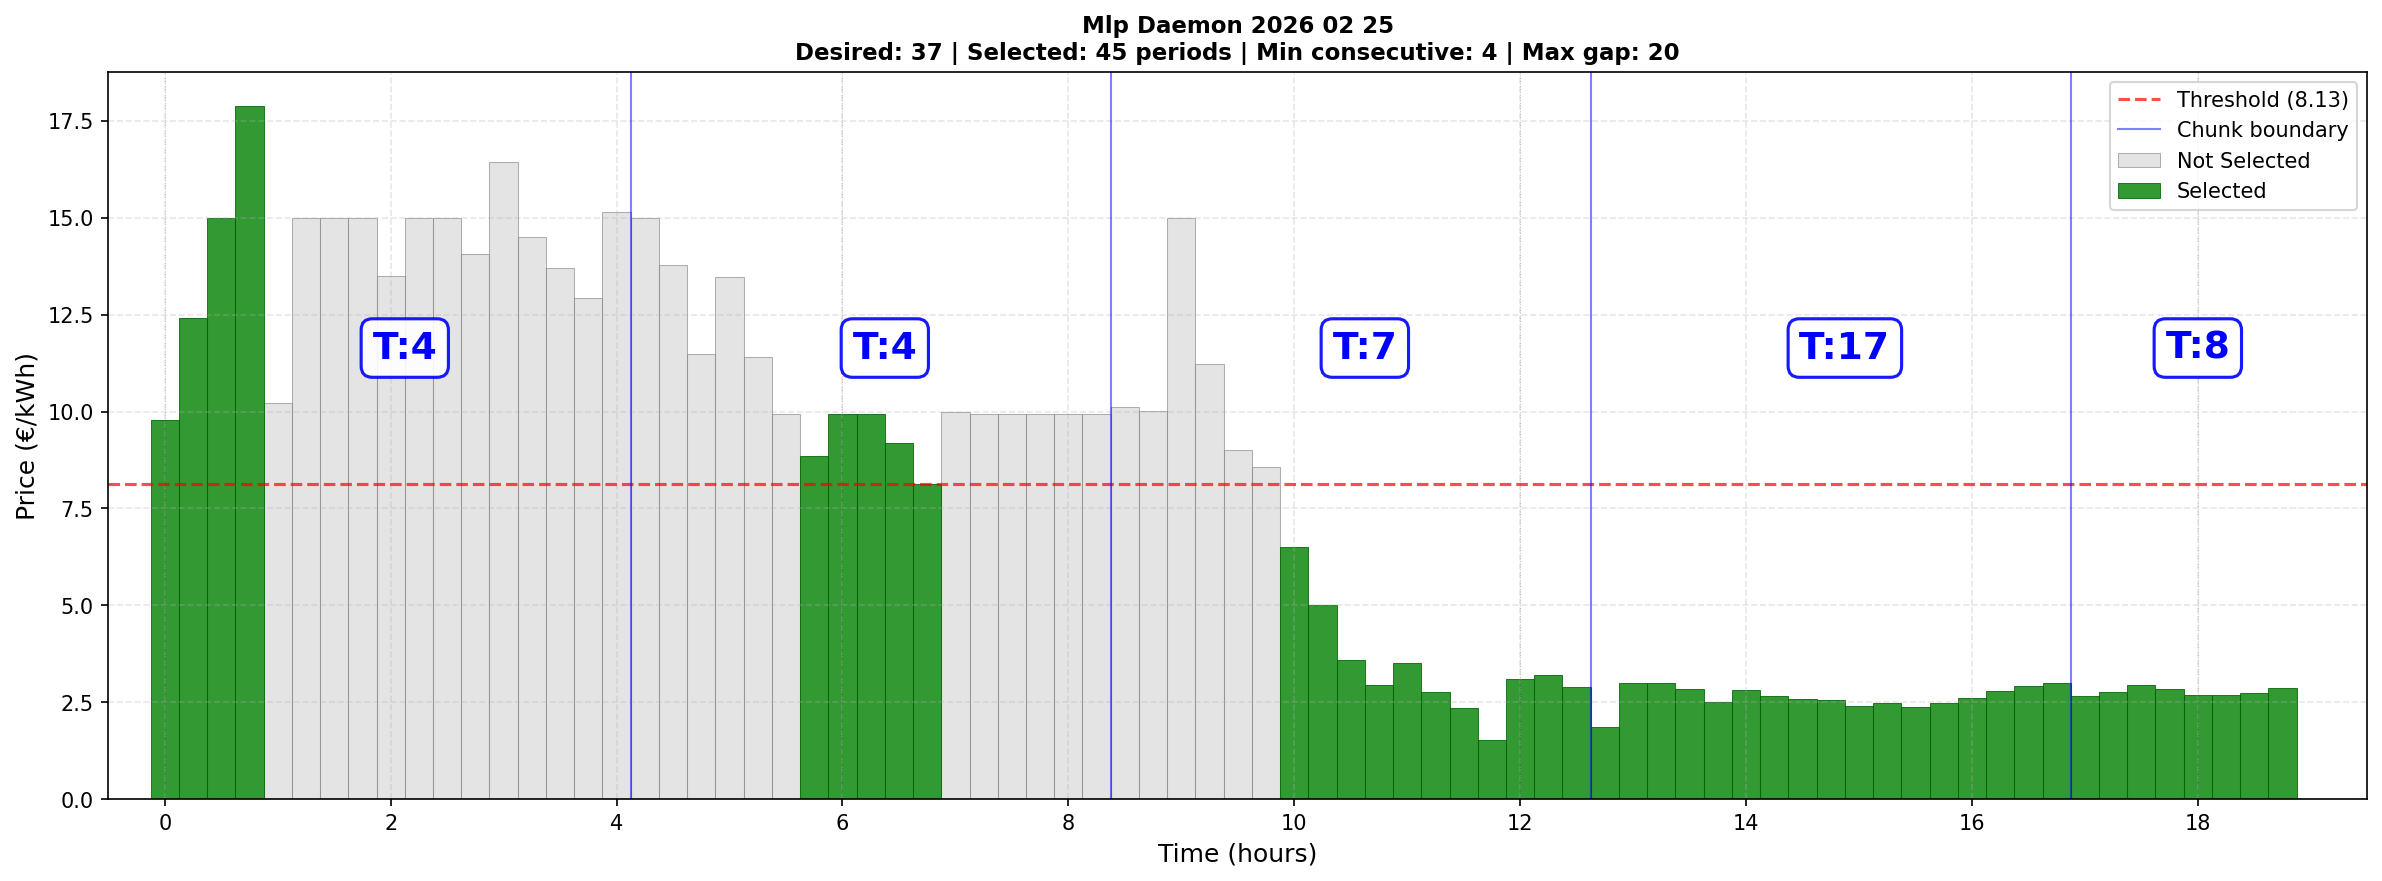
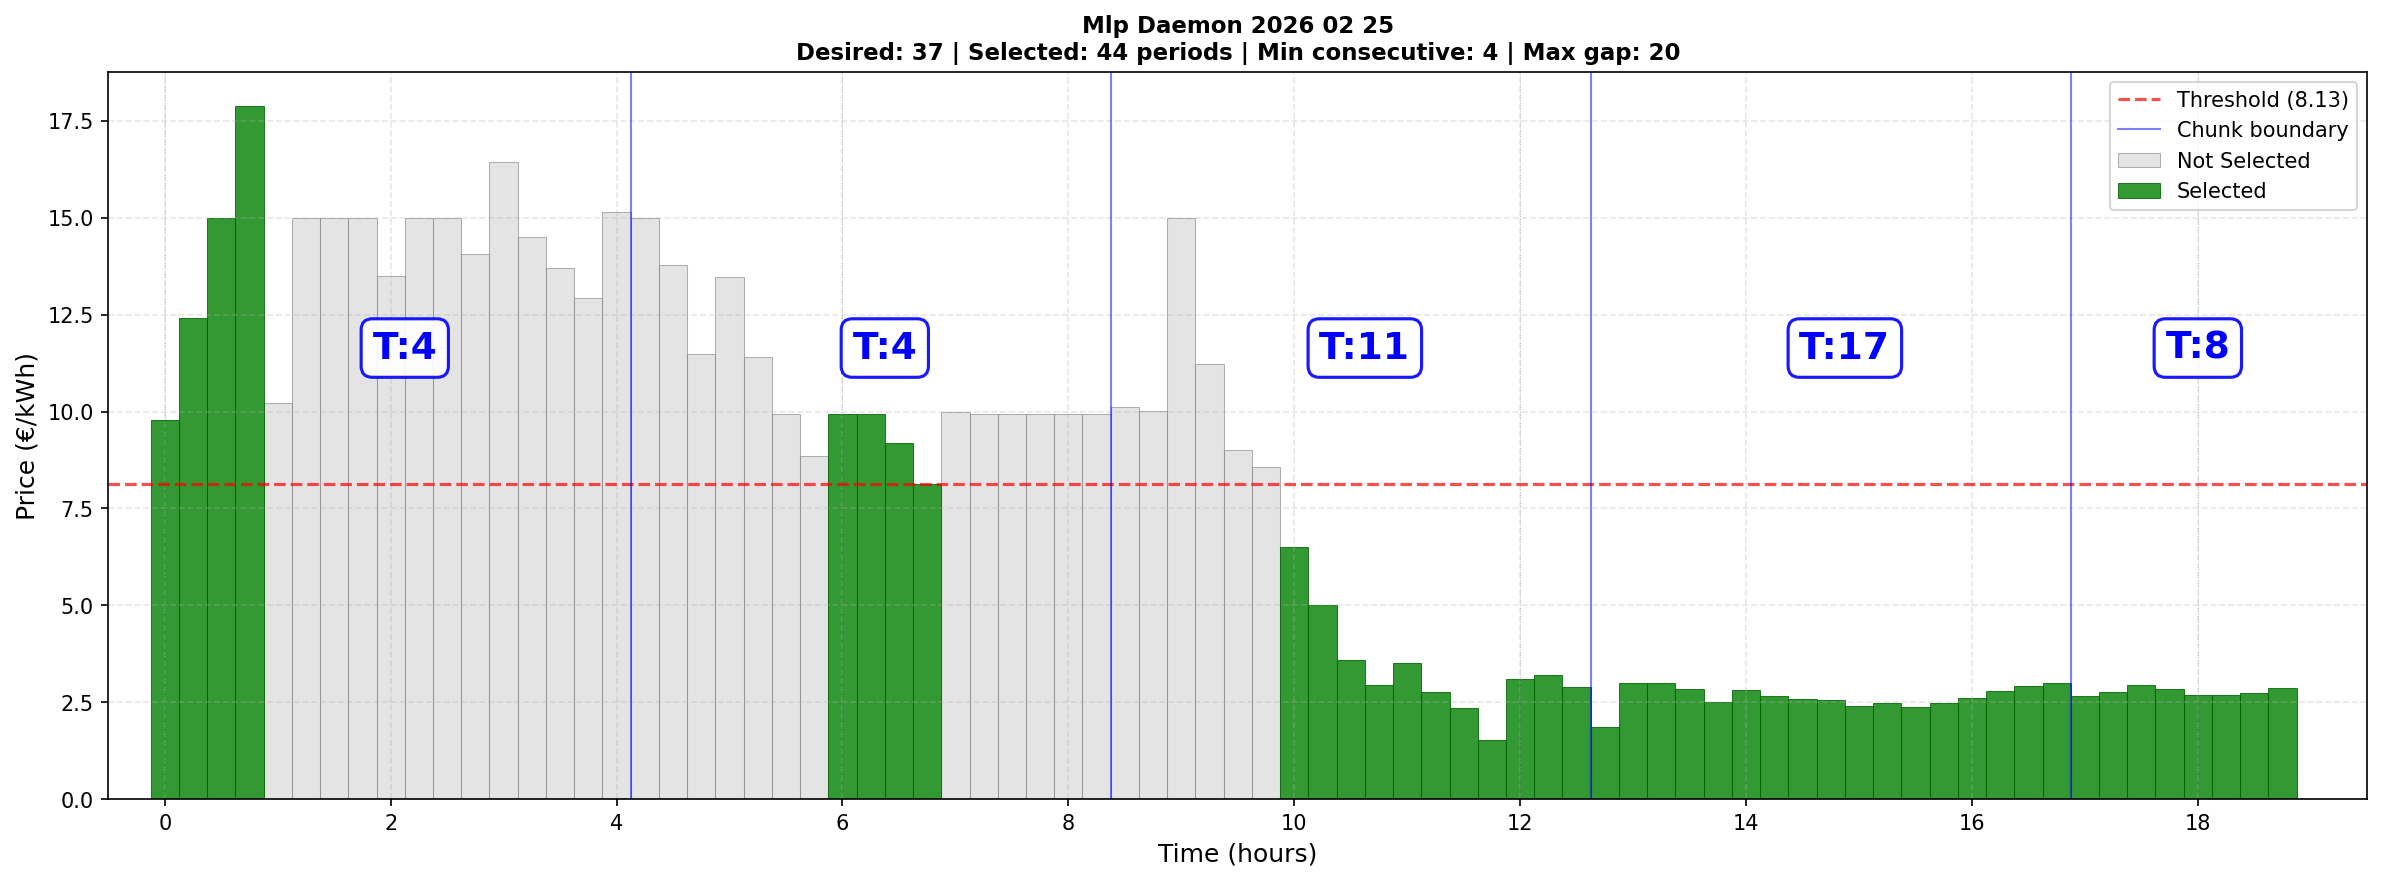
Replace expensive run edges with cheaper neighbours as a final pass
Chunk-local planning could pad a short run of cheap items with an
above-threshold edge item even when the unselected neighbour on the run's
other side was cheaper. In the cheap_day visualization, chunk 1's
look-ahead accepted the first extended-target selection ending at the
chunk boundary, [30-32] + the 0.230 spike at index 33, and stopped
before reaching the equally valid [29-32] with the 0.183 filler.

Add _shift_expensive_run_edges(): while a run has an above-threshold edge
item and the opposite neighbour is cheaper, shift the run by one item if
the full selection stays valid. It keeps the item count, never removes a
below-threshold item and strictly lowers cost, so it can only improve or
keep a result. It runs last in get_cheapest_periods (after
_try_add_cheap_items), so cheap items added there are never traded away.

Results against the previous commit:
- 31,680 mlp heating planner inputs: 11,926 cheaper, 19,754 identical,
  0 worse.
- Visualization scenarios: cheap_day 2.76 -> 2.71, expensive_day
  4.05 -> 4.03, custom_minimal_constraints 307.85 -> 300.67,
  mlp_daemon_2026_02_25_01_23_35 148.08 -> 136.60, crash_2026_02_27
  305.31 -> 304.34; the other 12 unchanged.

Regenerated PNGs also refresh a few committed images that were already
stale relative to the code.

diff --git a/src/spot_planner/two_phase.py b/src/spot_planner/two_phase.py
@@ -192,6 +192,66 @@ def _validate_full_selection(
     return True
 
 
+def _shift_expensive_run_edges(
+    selected_indices: list[int],
+    prices: Sequence[Decimal],
+    low_price_threshold: Decimal,
+    min_consecutive_periods: int,
+    max_gap_between_periods: int,
+    max_gap_from_start: int,
+) -> list[int]:
+    """Replace above-threshold run edges with cheaper items on the other side.
+
+    Chunk-local planning can pad a run of cheap items with an expensive edge item
+    (e.g. a price spike at a chunk boundary) when the unselected neighbour on the
+    run's other side is cheaper. Shifting the run by one item keeps the item count
+    and never removes a below-threshold item, so each accepted shift strictly
+    lowers the total cost. Only shifts that keep the full selection valid are
+    applied; an invalid input selection is returned unchanged.
+    """
+    n = len(prices)
+    result = sorted(selected_indices)
+    if not _validate_full_selection(
+        result, n, min_consecutive_periods, max_gap_between_periods, max_gap_from_start
+    ):
+        return result
+
+    while True:
+        runs: list[tuple[int, int]] = []
+        run_start = result[0]
+        for prev, cur in zip(result, result[1:]):
+            if cur != prev + 1:
+                runs.append((run_start, prev))
+                run_start = cur
+        runs.append((run_start, result[-1]))
+
+        # (saving, removed, added) for every valid one-item shift
+        best: tuple[Decimal, int, int] | None = None
+        for start, end in runs:
+            for removed, added in ((end, start - 1), (start, end + 1)):
+                if not 0 <= added < n:
+                    continue
+                if prices[removed] <= low_price_threshold:
+                    continue
+                saving = prices[removed] - prices[added]
+                if saving <= 0 or (best is not None and saving <= best[0]):
+                    continue
+                candidate = sorted((set(result) - {removed}) | {added})
+                if _validate_full_selection(
+                    candidate,
+                    n,
+                    min_consecutive_periods,
+                    max_gap_between_periods,
+                    max_gap_from_start,
+                ):
+                    best = (saving, removed, added)
+
+        if best is None:
+            return result
+        _, removed, added = best
+        result = sorted((set(result) - {removed}) | {added})
+
+
 def _calculate_chunk_boundary_state(
     chunk_selected: list[int], chunk_length: int
 ) -> ChunkBoundaryState:

diff --git a/tests/test_shift_expensive_run_edges.py b/tests/test_shift_expensive_run_edges.py
@@ -1,0 +1,65 @@
+"""Tests for the final pass that swaps an expensive run edge for a cheaper neighbour.
+
+Found in the cheap_day visualization: chunk-local planning padded the cheap run
+30-32 with the 0.230 spike at index 33 (the chunk's last item) although index 29
+(0.183) on the run's other side was cheaper and equally valid.
+"""
+
+from decimal import Decimal
+
+from spot_planner import get_cheapest_periods, two_phase
+
+THRESHOLD = Decimal("0.08")
+
+
+def _d(values: list[str]) -> list[Decimal]:
+    return [Decimal(v) for v in values]
+
+
+def test_expensive_edge_replaced_by_cheaper_neighbour():
+    prices = _d(["0.05", "0.05", "0.05", "0.05", "0.18", "0.03", "0.03", "0.03", "0.23"])
+    selected = [0, 1, 2, 3, 5, 6, 7, 8]
+
+    result = two_phase._shift_expensive_run_edges(selected, prices, THRESHOLD, 4, 8, 0)
+
+    assert result == [0, 1, 2, 3, 4, 5, 6, 7]
+
+
+def test_cheap_edge_never_removed():
+    # Shifting would drop the below-threshold item 8 for the cheaper item 4,
+    # losing a cheap item: must not happen.
+    prices = _d(["0.05", "0.05", "0.05", "0.05", "0.01", "0.03", "0.03", "0.03", "0.07"])
+    selected = [0, 1, 2, 3, 5, 6, 7, 8]
+
+    result = two_phase._shift_expensive_run_edges(selected, prices, THRESHOLD, 4, 8, 0)
+
+    assert result == selected
+
+
+def test_shift_that_breaks_constraints_rejected():
+    # Shifting run 8-11 right (drop 0.20, add 0.10) would widen the gap after
+    # index 3 from 4 to 5 > max_gap=4, so the selection must stay as is.
+    prices = _d(["0.05"] * 4 + ["0.30"] * 4 + ["0.20", "0.03", "0.03", "0.03", "0.10"])
+    selected = [0, 1, 2, 3, 8, 9, 10, 11]
+
+    result = two_phase._shift_expensive_run_edges(selected, prices, THRESHOLD, 4, 4, 0)
+
+    assert result == selected
+
+
+def test_invalid_selection_returned_unchanged():
+    prices = _d(["0.20", "0.03", "0.30"])
+    selected = [1, 2]  # run shorter than min_consecutive_periods=4
+
+    assert two_phase._shift_expensive_run_edges(selected, prices, THRESHOLD, 4, 2, 2) == selected
+
+
+def test_long_sequence_uses_cheaper_filler():
+    # 40 items -> extended algorithm. Cheap run 20-22 needs a 4th item: 19 (0.18)
+    # is cheaper than 23 (0.23), so 23 must not be selected.
+    prices = _d(["0.05"] * 8 + ["0.20"] * 11 + ["0.18", "0.03", "0.03", "0.03", "0.23"] + ["0.20"] * 8 + ["0.05"] * 8)
+
+    result = get_cheapest_periods(prices, THRESHOLD, 16, 4, 12, 0)
+
+    assert 23 not in result
+    assert two_phase._validate_full_selection(result, len(prices), 4, 12, 0)

diff --git a/src/spot_planner/main.py b/src/spot_planner/main.py
@@ -118,7 +118,12 @@ def get_cheapest_periods(
             max_gap_between_periods,
             max_gap_from_start,
         )
-        return _try_add_cheap_items(
+        result = _try_add_cheap_items(
+            result, prices, low_price_threshold,
+            min_consecutive_periods, max_gap_between_periods, max_gap_from_start,
+        )
+        # Last step, so the cheap items added above are never traded away.
+        return two_phase._shift_expensive_run_edges(
             result, prices, low_price_threshold,
             min_consecutive_periods, max_gap_between_periods, max_gap_from_start,
         )
